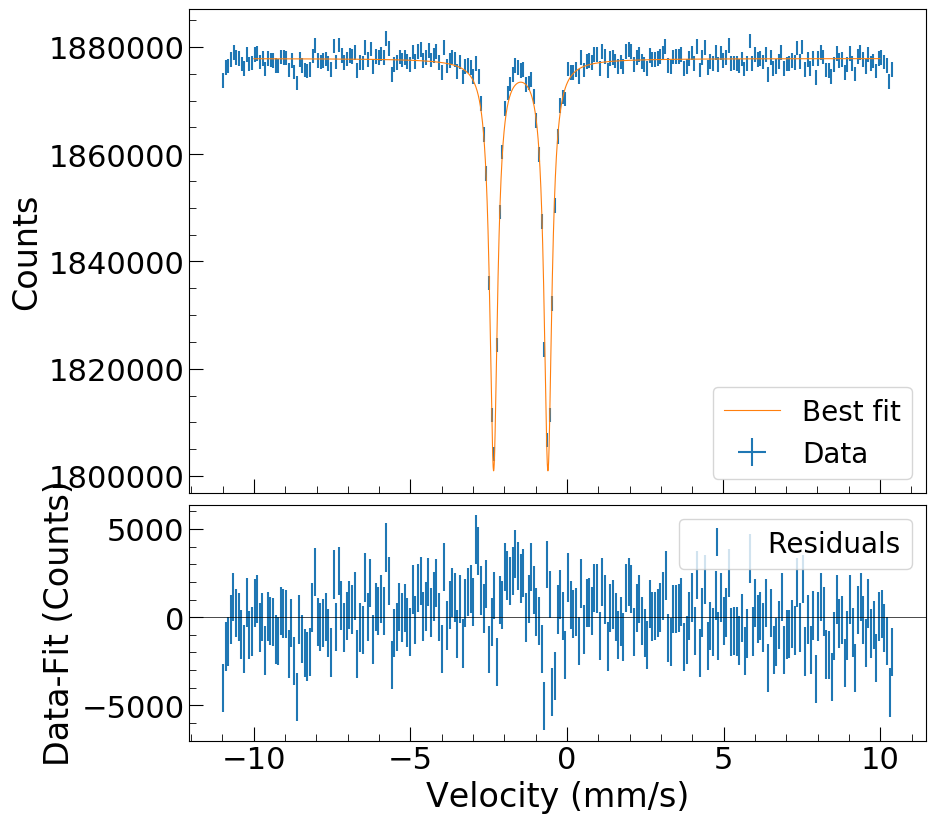
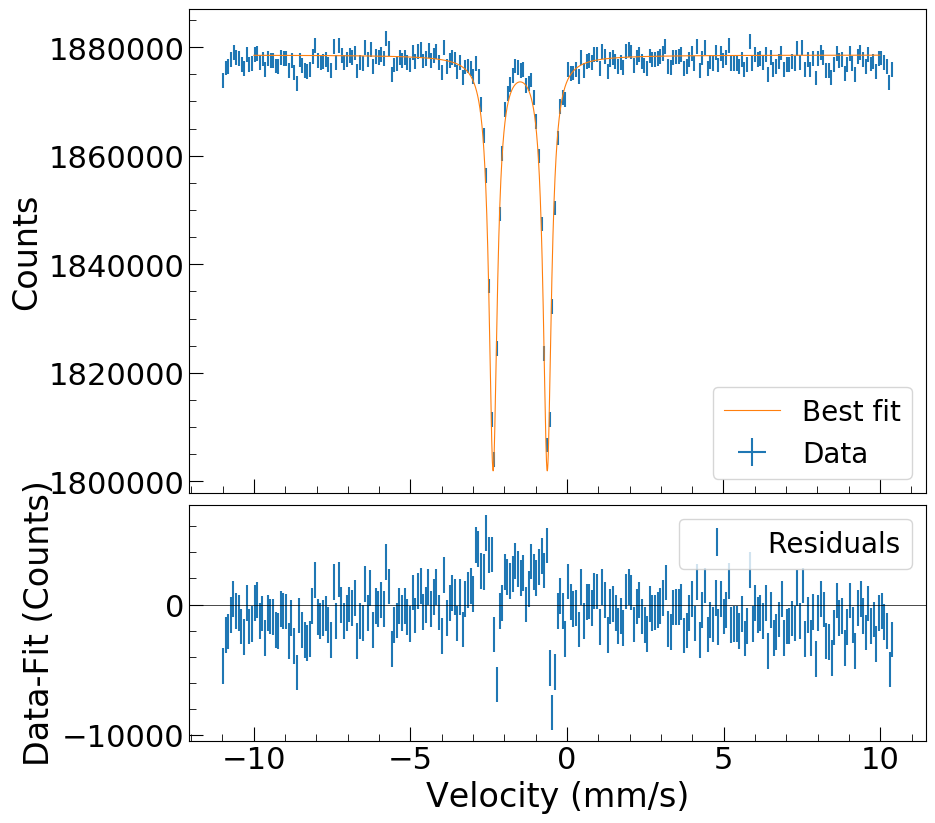
merge

diff --git a/Lab2_Mossbauer/plot_iceFeNH3SO4.py b/Lab2_Mossbauer/plot_iceFeNH3SO4.py
@@ -7,7 +7,7 @@ import matplotlib.gridspec as gridspec
 from matplotlib.ticker import (MultipleLocator, FormatStrFormatter,
                                AutoMinorLocator)
 
-data = np.loadtxt('folded_data_FeNH3SO4.txt', delimiter=',')
+data = np.loadtxt('folded_data_IcedFeNH3.txt', delimiter=',')
 
 x = fit(data[:,0][1:])
 y = data[:,1][1:]
@@ -15,11 +15,11 @@ yerr = np.sqrt(y)
 
 err_x = np.sqrt((6e-5*x)**2 +0.009**2)
 
-p0=[0.16,np.max(y), 1.440000007e04, 1.440000004e4, 7e3]
+p0=[0.16,np.max(y), 1.440000007e04, 1.440000004e4, 2e2]
 
 func = MossbauerModel(quad=True).mod
 
-p,pcov = curve_fit(func,x,y, p0=p0, bounds=([0,1.87e6,1.440000003e4,1.440000001e4,1e1],[0.5, 1.9e6, 1.440000009e4,1.440000008e4,np.inf]), sigma = yerr)
+p,pcov = curve_fit(func,x,y, p0=p0, bounds=([0,1e4,1.440000003e4,1.440000001e4,1e1],[0.5, 1.9e6, 1.440000009e4,1.440000008e4,np.inf]), sigma = yerr)
 for i in range(len(p)):
 	print(p[i], np.sqrt(pcov[i,i]))
 x_arr = np.linspace(-10,10,10000000)
@@ -66,11 +66,3 @@ ax2.set_ylabel('Data-Fit (Counts)', size = 24)
 ax2.legend( prop={'size': 20})
 plt.savefig('Fit_FerrousAmmoniumSulfate.png',bbox_inches='tight')
 plt.show()
-
-def convert_E_to_v(c,Es, E):
-		return c*(E -Es)/Es
-Es  = 14.4e3
-c=3e8
-isomer=convert_E_to_v(c,Es, p[2])
-BestEQ=convert_E_to_v(c,Es, p[3])*2
-print(isomer,BestEQ)

diff --git a/Lab2_Mossbauer/MossbauerFit.py b/Lab2_Mossbauer/MossbauerFit.py
@@ -110,7 +110,7 @@ class MossbauerModel:
 '''x = np.linspace(-100,100,1000000)
 func = MossbauerModel(quad=True).mod
 
-y = func(x,0.1,0,1.3e4, 1.80e6, 1e3)
+y = func(x,0.1,0,1.44e4, 1.4400001e4, 1e3)
 plt.plot(x,y)
 plt.show()'''
 
